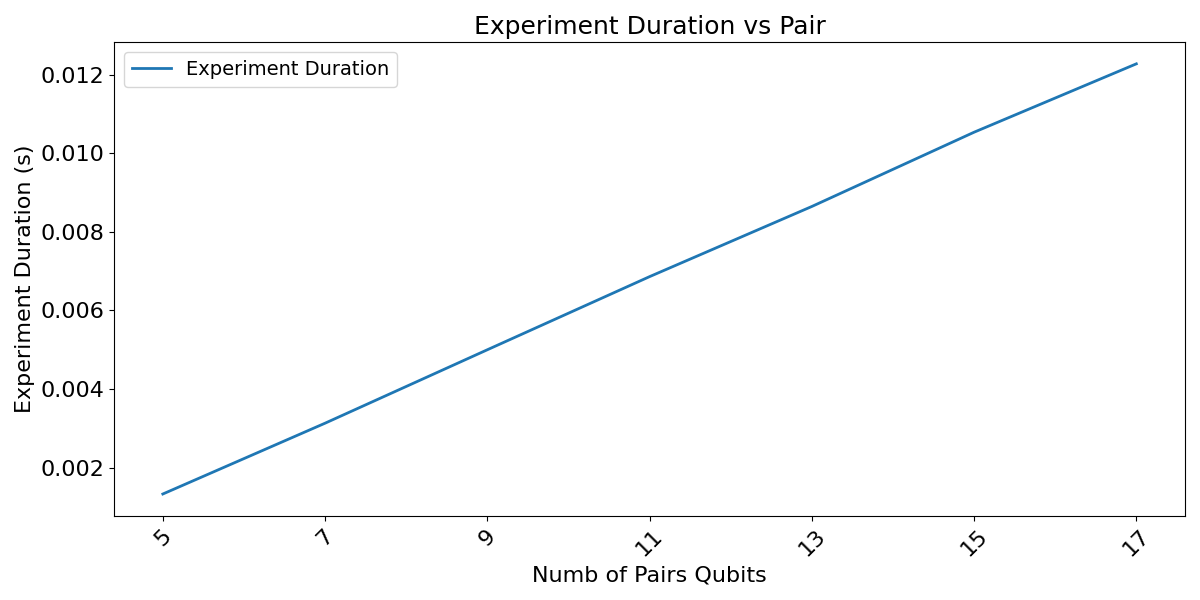
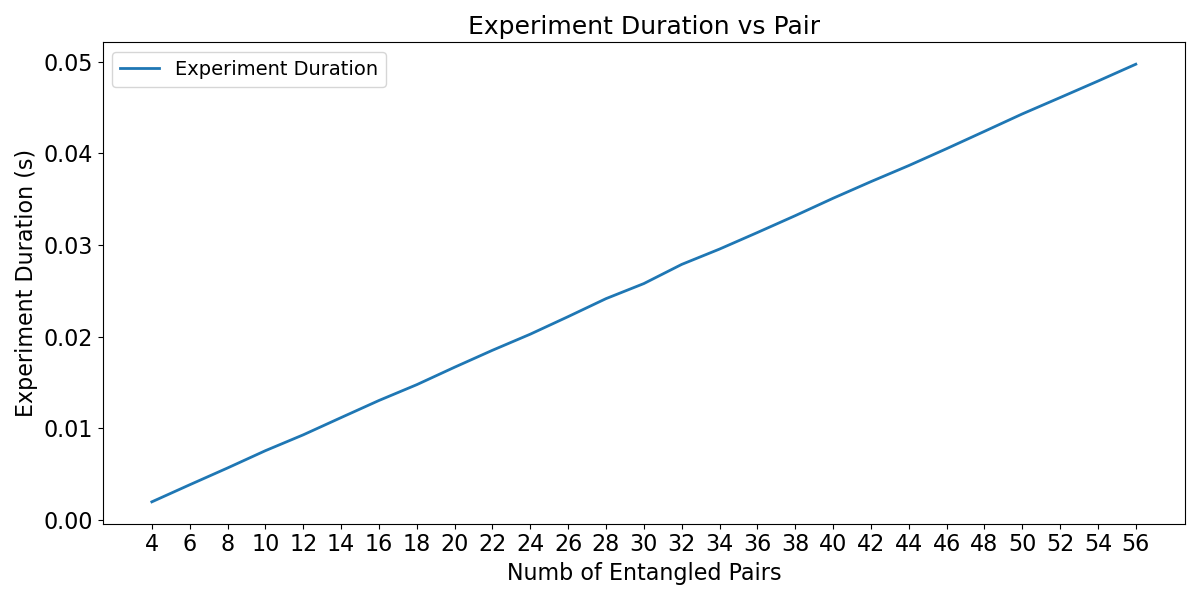
- add sim-purification.py now supports more experiment output

diff --git a/hop_by_hop_experiment/plot_purification.py b/hop_by_hop_experiment/plot_purification.py
@@ -74,16 +74,16 @@ def main():
                "Count",
                ["Satisfied Pairs", "Teleportation Success"],
                save_dir="./purification_results/figures")
-    # plot_lines([x, x], [purified_count, purified_success_count], "Purified Count vs Pair",
-    #            "Numb of Pairs Qubits",
-    #            "Purified Count",
-    #            ["Purified Count", "Purified Success Count"],
-    #            save_dir="./purification_results/figures")
-    # plot_lines([x], [experiment_duration], "Experiment Duration vs Pair",
-    #            "Numb of Pairs Qubits",
-    #            "Experiment Duration (s)",
-    #            ["Experiment Duration"],
-    #            save_dir="./purification_results/figures")
+    plot_lines([x, x], [purified_count, purified_success_count], "Purified Count vs Pair",
+               "Numb of Entangled Pairs",
+               "Purified Count",
+               ["Purified Count", "Purified Success Count"],
+               save_dir="./purification_results/figures")
+    plot_lines([x], [experiment_duration], "Experiment Duration vs Pair",
+               "Numb of Entangled Pairs",
+               "Experiment Duration (s)",
+               ["Experiment Duration"],
+               save_dir="./purification_results/figures")
 
 
 if __name__ == '__main__':
